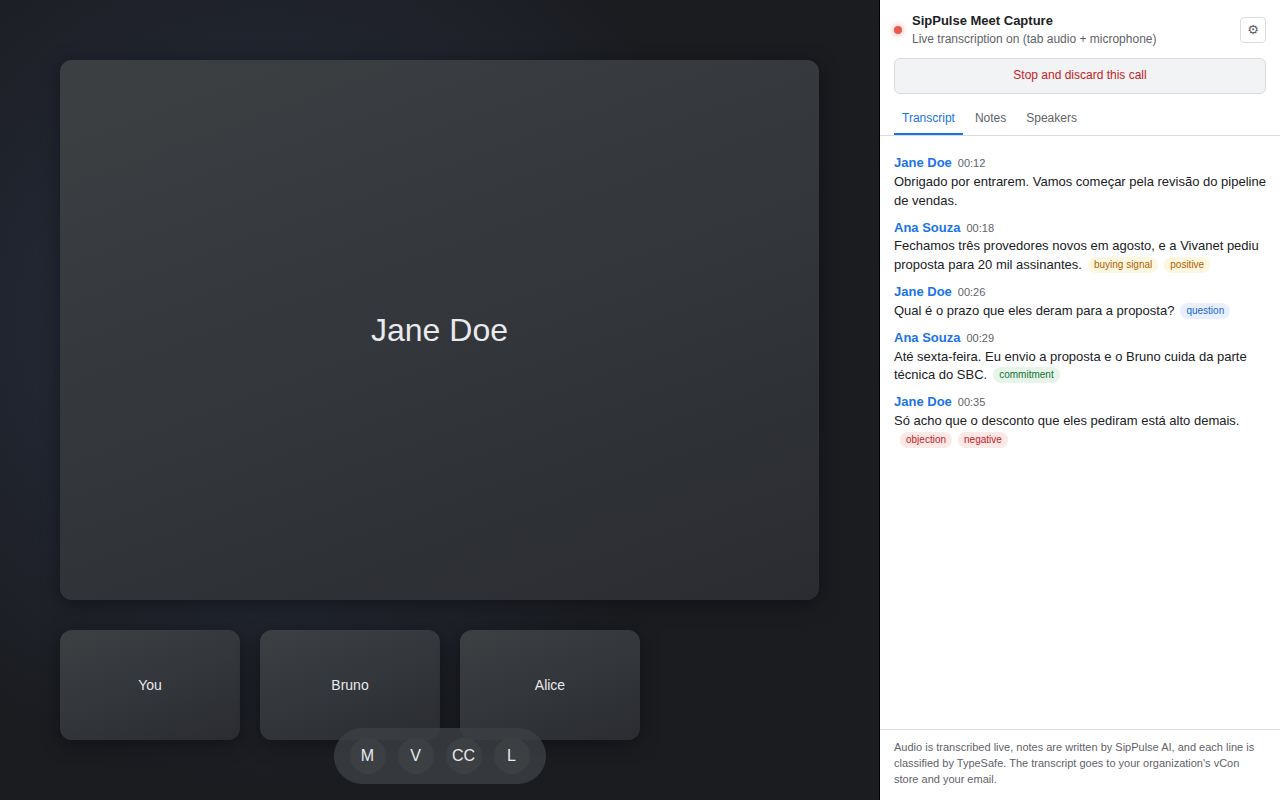
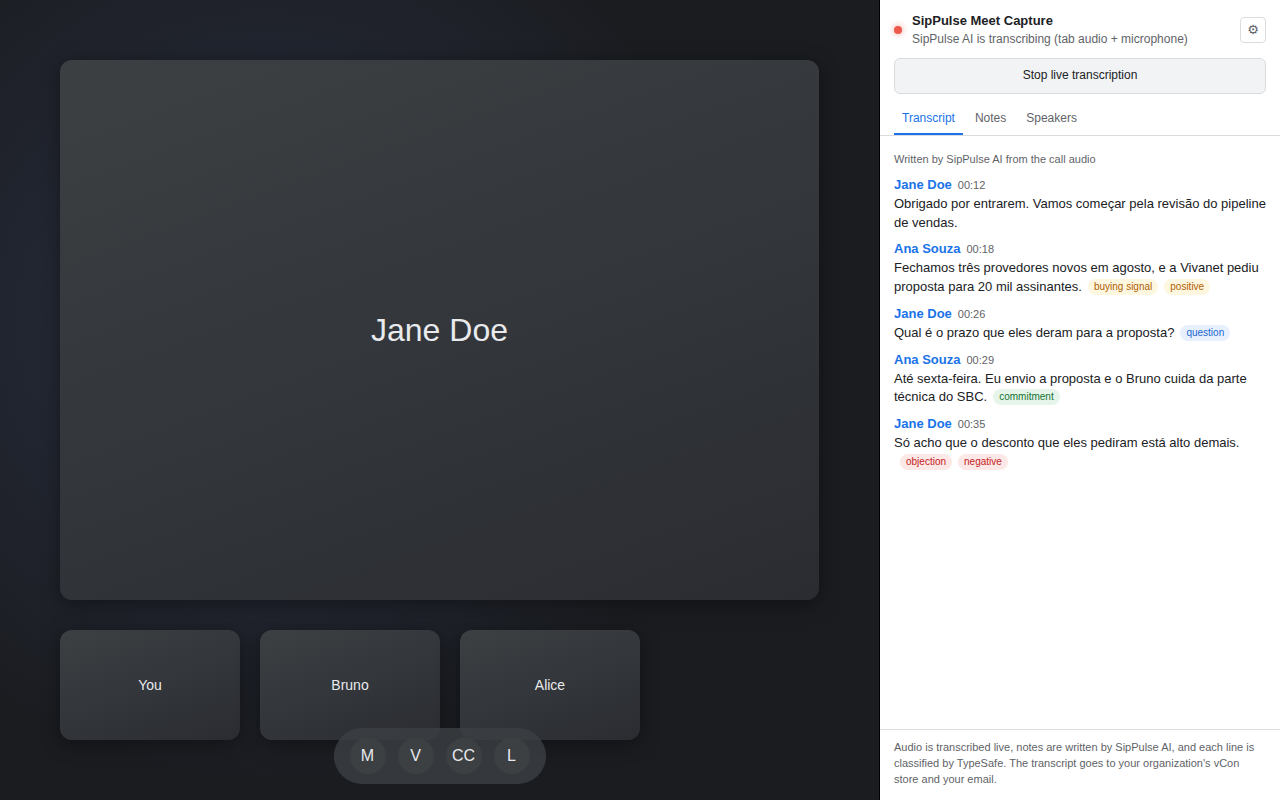
Say in the disclosure that captions can be switched on, and refresh the images
The consent text claimed the extension never turns Google captions on,
which stopped being true the moment captions became a transcript source an
administrator can choose. It now says captions are switched on only where
they are the configured source, and that no audio leaves the tab in that
mode. The Connection card names the chosen source instead of guessing from
whether a key exists.

Store screenshots regenerated: the options page carries the new setting and
the in-call shot is the side panel.

Changed region(s): [[0.6875, 0.1875, 1.0, 0.5938], [0.7188, 0.0312, 0.9375, 0.125]]

diff --git a/src/options/options.html b/src/options/options.html
@@ -19,8 +19,8 @@
       <section class="card" aria-labelledby="disclosure-title">
         <h2 id="disclosure-title">Before you enable capture</h2>
         <ul>
-          <li>Google caption text is captured as a fallback when you have captions on. The extension never turns captions on for you.</li>
-          <li>Live transcription starts only when you click it. It streams the Meet tab audio and your microphone to <strong>SipPulse AI</strong>, which returns the transcript; audio is not stored by the extension.</li>
+          <li>Google caption text is captured as a fallback when you have captions on. The extension turns captions on by itself only where your administrator made them the transcript source (see Settings).</li>
+          <li>Live transcription starts only when you click it. It streams the Meet tab audio and your microphone to <strong>SipPulse AI</strong>, which returns the transcript; audio is not stored by the extension. On the Google captions source no audio leaves this tab at all.</li>
           <li>The transcript is sent to <strong>SipPulse AI</strong> during and after the call to produce notes: summary, topics, action items, decisions, and open questions.</li>
           <li>Each transcribed line is sent to <strong>TypeSafe</strong> (Jev model) to classify its intent, sentiment, and whether it is an action item.</li>
           <li>The final vCon, including the meeting report, is stored in your organization's vCon store and emailed to <strong id="email">your company email</strong>.</li>

diff --git a/src/options/options.js b/src/options/options.js
@@ -112,9 +112,12 @@ async function refresh() {
       ? "Enabled"
       : "Disabled by administrator"
     : "Waiting for your consent";
-  elements.provider.textContent = state.config.liveTranscriptionReady
-    ? `${transcription.PROFILE.label} (Google captions fallback)`
-    : "Google captions only (SipPulse AI URL and key not configured)";
+  elements.provider.textContent =
+    state.config.transcriptionSource === "google_captions"
+      ? "Google captions, turned on automatically (no audio leaves the tab)"
+      : state.config.liveTranscriptionReady
+      ? `${transcription.PROFILE.label} (Google captions fallback)`
+      : "Google captions only (SipPulse AI URL and key not configured)";
   const when = state.config.analysisMode === "live" ? "during the call" : "when the call ends";
   elements.notes.textContent = state.config.analysisReady
     ? `SipPulse AI, ${when}`
